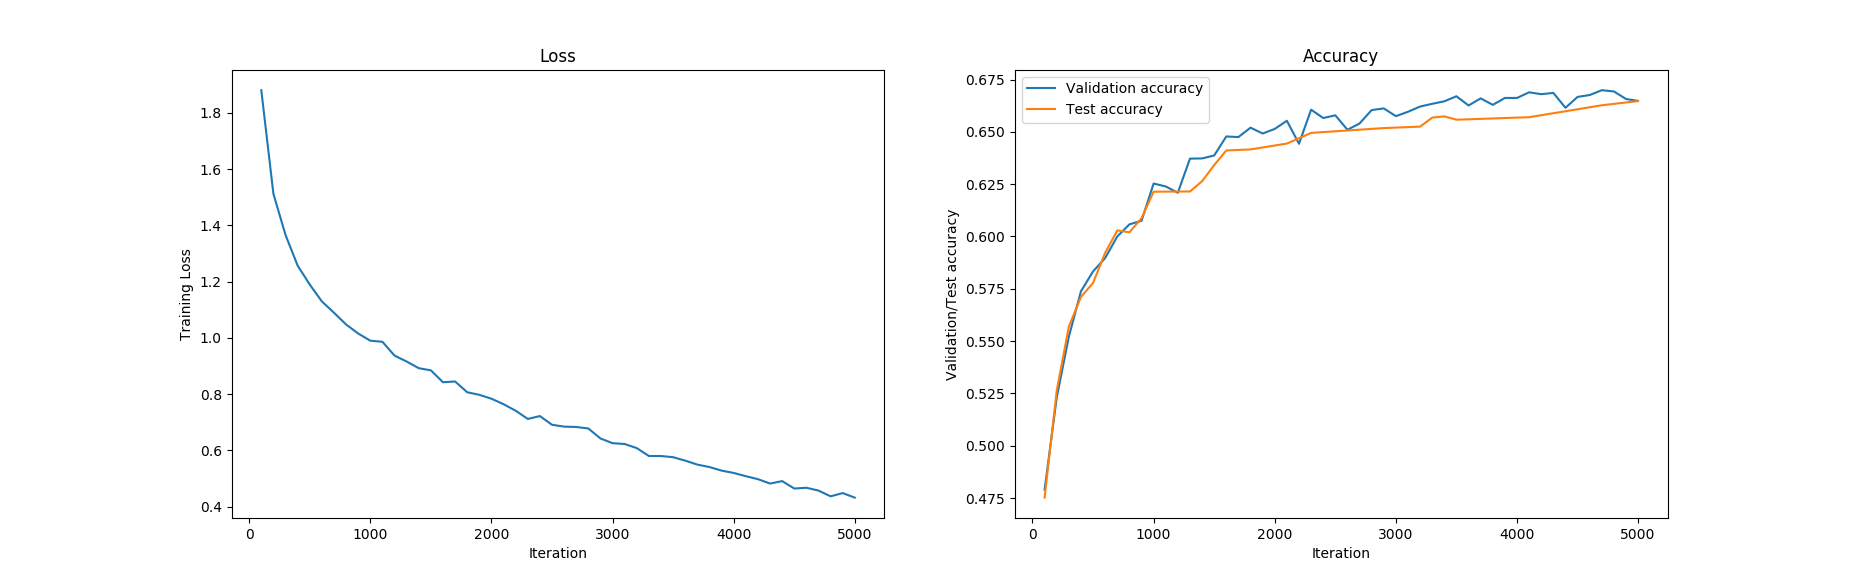
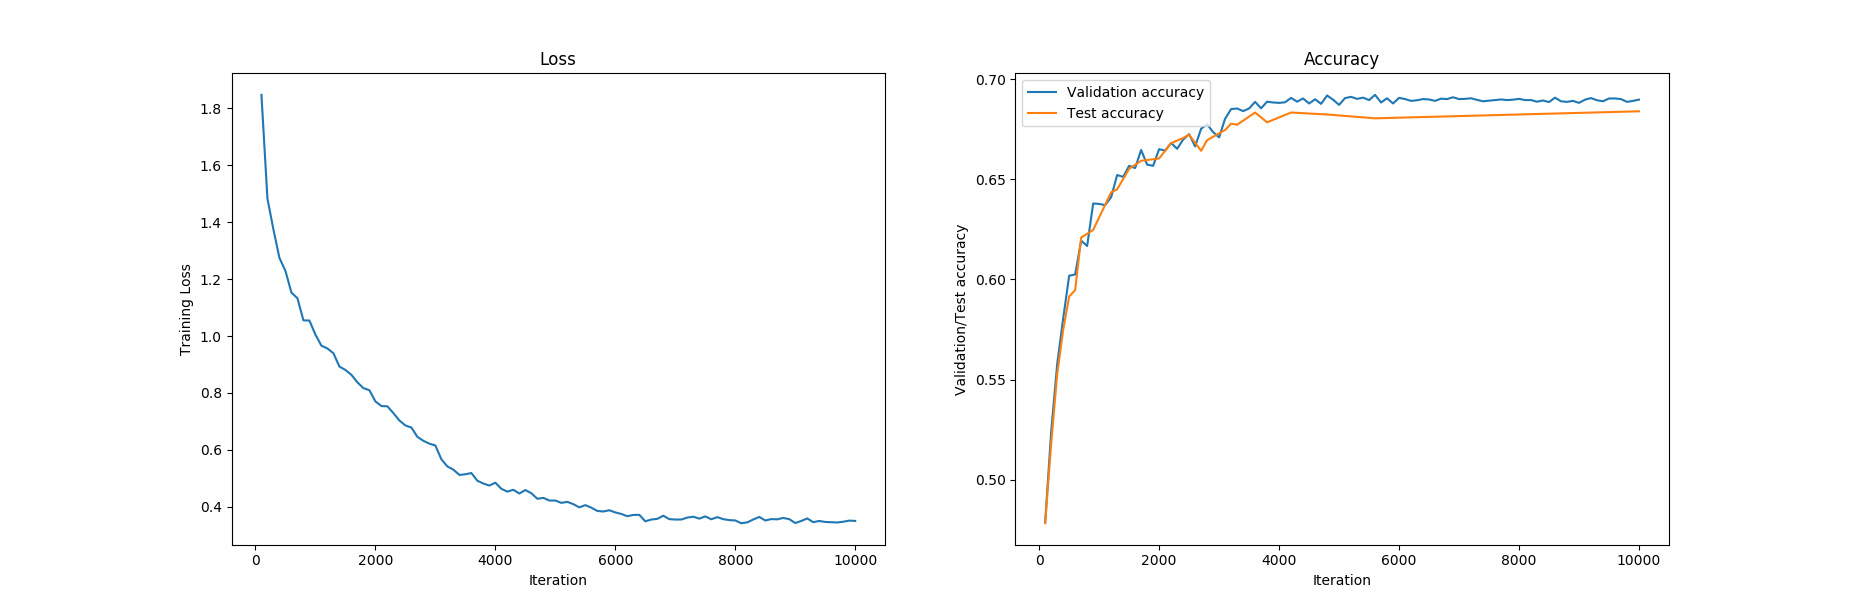
support standard data augmentation

diff --git a/utils/transforms.py b/utils/transforms.py
@@ -1,0 +1,96 @@
+import numpy as np
+import matplotlib.pyplot as plt
+
+
+class Transforms(object):
+
+    def __init__(self, transform_list):
+        self.transform_list = transform_list
+
+    def transform(self, x_data):
+        transformed = x_data
+        for transform in self.transform_list:
+            transformed = transform.transform(transformed)
+        return transformed
+
+
+class Pad(object):
+
+    def __init__(self, padding=4, mode='reflect'):
+        self.padding = padding
+        self.mode = mode
+
+    def transform(self, x_data):
+        return np.pad(x_data, ((0, 0), (0, 0), (self.padding, self.padding), (self.padding, self.padding)), self.mode)
+
+
+class Normalize(object):
+
+    def __init__(self, mean=None, std=None):
+        self.mean = mean
+        self.std = std
+
+    def transform(self, x_data):
+        if self.mean is not None and self.std is not None:
+            self.mean = np.array(self.mean).reshape(1, -1, 1, 1)
+            self.std = np.array(self.std).reshape(1, -1, 1, 1)
+            return (x_data - self.mean) / self.std
+        else:
+            mean = np.mean(x_data, axis=(0, 2, 3)).reshape(1, -1, 1, 1)
+            std = np.std(x_data, axis=(0, 2, 3)).reshape(1, -1, 1, 1)
+            return (x_data - mean) / std
+
+
+class ToTensor(object):
+
+    def __init__(self):
+        pass
+
+    def transform(self, x_data):
+        return x_data / 255
+
+
+class RandomHorizontalFlip(object):
+
+    def __init__(self, flip_prob=0.5):
+        self.flip_prob = flip_prob
+
+    def transform(self, x_data):
+        x_shape = x_data.shape
+        for i in range(x_shape[0]):
+            if np.random.rand() < self.flip_prob:
+                x_data[i] = x_data[i, :, :, ::-1]
+        return x_data
+
+
+class RandomVerticaltalFlip(object):
+
+    def __init__(self, flip_prob=0.5):
+        self.flip_prob = flip_prob
+
+    def transform(self, x_data):
+        x_shape = x_data.shape
+        for i in range(x_shape[0]):
+            if np.random.rand() < self.flip_prob:
+                x_data[i] = x_data[i, :, ::-1, :]
+        return x_data
+
+class RandomCrop(object):
+
+    def __init__(self, crop_size):
+        if type(crop_size) is int:
+            crop_size = (crop_size, crop_size)
+        self.crop_size = crop_size
+
+    def transform(self, x_data):
+        x_shape = x_data.shape
+        h = x_shape[2]
+        w = x_shape[3]
+        x_new = np.zeros(shape=[x_shape[0], x_shape[1], self.crop_size[0], self.crop_size[1]])
+        for i in range(x_shape[0]):
+            bottom = np.random.randint(0, h - self.crop_size[0])
+            left = np.random.randint(0, w - self.crop_size[1])
+            top = bottom + self.crop_size[0]
+            right = left + self.crop_size[1]
+            x_new[i] = x_data[i, :, bottom: top, left: right]
+        return x_new

diff --git a/utils/load_data.py b/utils/load_data.py
@@ -5,18 +5,21 @@ import sys
 import numpy as np
 
 
-def load_mnist(root='./data/mnist'):
+def load_mnist(train_transform, val_test_transfrom, root='./data/mnist'):
     f = gzip.open(os.path.join(root, 'mnist.pkl.gz'), 'rb')
     if sys.version_info[0] == 2:
         train, val, test = pickle.load(f)
     else:
         train, val, test = pickle.load(f, encoding='latin1')
-    train_data, val_data, test_data = train[0].reshape(-1, 1, 28, 28) / 255, val[0].reshape(-1, 1, 28, 28) / 255, test[0].reshape(-1, 1, 28, 28) / 255
+    train_data, val_data, test_data = train[0].reshape(-1, 1, 28, 28), val[0].reshape(-1, 1, 28, 28), \
+                                      test[0].reshape(-1, 1, 28, 28)
+    train_data, val_data, test_data = train_transform.transform(train_data), val_test_transfrom.transform(val_data), \
+                                      val_test_transfrom.transform(val_data)
     train_labels, val_labels, test_labels = train[1], val[1], test[1]
 
     return (train_data, train_labels), (val_data, val_labels), (test_data, test_labels)
 
-def load_cifar10(root='./data/cifar10'):
+def load_cifar10(train_transform, val_test_transfrom, root='./data/cifar10'):
     # from torchvision.datasets.CIFAR10
     base_folder = 'cifar-10-batches-py'
 
@@ -52,8 +55,8 @@ def load_cifar10(root='./data/cifar10'):
         fo.close()
     train_data = np.concatenate(train_data)
     train_labels = np.array(train_labels)
-    train_data = train_data.reshape((40000, 3, 32, 32))
-    train_data = train_data / 255
+    train_data = train_data.reshape(40000, 3, 32, 32)
+    train_data = train_transform.transform(train_data)
     train = train_data, train_labels
 
     # test_set
@@ -71,8 +74,8 @@ def load_cifar10(root='./data/cifar10'):
         test_labels = entry['fine_labels']
     fo.close()
     test_labels = np.array(test_labels)
-    test_data = test_data.reshape((10000, 3, 32, 32))
-    test_data = test_data / 255
+    test_data = test_data.reshape(10000, 3, 32, 32)
+    test_data = val_test_transfrom.transform(test_data)
     test = test_data, test_labels
 
     # validation set
@@ -90,8 +93,8 @@ def load_cifar10(root='./data/cifar10'):
         val_labels = entry['fine_labels']
     fo.close()
     val_labels = np.array(val_labels)
-    val_data = val_data.reshape((10000, 3, 32, 32))
-    val_data = val_data / 255
+    val_data = val_data.reshape(10000, 3, 32, 32)
+    val_data = val_test_transfrom.transform(val_data)
     val = val_data, val_labels
 
     return train, val, test

diff --git a/blocks/layers.py b/blocks/layers.py
@@ -60,7 +60,8 @@ class Conv2d(object):
         self.padding = padding
         self.out_H = None
         self.out_W = None
-        self.W = [np.random.randn(self.out_C, self.in_C, self.kernel_H, self.kernel_W) * np.sqrt(2 / (self.kernel_H * self.kernel_W * self.in_C))]
+        self.W = [np.random.randn(self.out_C, self.in_C, self.kernel_H, self.kernel_W) *
+                  np.sqrt(2 / (self.kernel_H * self.kernel_W * self.in_C))]
         self.b = [np.zeros(shape=[self.out_C, 1])]
         self.W_grad = [np.zeros(self.W[0].shape)]
         self.b_grad = [np.zeros(self.b[0].shape)]
@@ -106,7 +107,8 @@ class Conv2d(object):
             self.W_grad[0] = np.dot(grad_reshaped, self.cols.T).reshape(self.W[0].shape)
         dcols = np.dot(self.W[0].reshape(self.out_C, -1).T, grad_reshaped)
 
-        return col2im_cython(dcols, self.input.shape[0], self.input.shape[1], self.input.shape[2], self.input.shape[3], self.kernel_H, self.kernel_W, self.padding, self.stride)
+        return col2im_cython(dcols, self.input.shape[0], self.input.shape[1], self.input.shape[2], self.input.shape[3],
+                             self.kernel_H, self.kernel_W, self.padding, self.stride)
 
 
 class Dropout(object):

diff --git a/cnn_cifar10.py b/cnn_cifar10.py
@@ -1,13 +1,15 @@
 from blocks import layers, activations, losses
 from utils import load_data, network, optimizers
+from utils.transforms import *
 import time
 
 
 # hyper-parameters
-learning_rate = 0.001
-num_iter = 5000
+learning_rate = 0.003
+num_iter = 10000
 batch_size = 128
 l2_reg = 1e-5
+lr_decay = [0.1, 3000, 6000]
 print_freq = 100
 
 # network
@@ -30,11 +32,15 @@ net.add_block(layers.Linear(n_in=512, n_out=10))
 net.add_block(losses.CrossEntropyLoss())
 
 #optimizer
-optimizer = optimizers.Adam(learning_rate=learning_rate, betas=(0.9, 0.999))
+optimizer = optimizers.Adam(learning_rate=learning_rate, betas=(0.9, 0.999), lr_decay=lr_decay)
 optimizer.load(net.params, net.grads)
 
-# data
-train, val, test = load_data.load_cifar10()
+# data and augmentation
+mean = [x / 255 for x in [125.3, 123.0, 113.9]]
+std = [x / 255 for x in [63.0, 62.1, 66.7]]
+train_transform = Transforms([ToTensor(), Pad(4), RandomCrop(32), RandomHorizontalFlip(), Normalize(mean, std)])
+val_test_transform = Transforms([ToTensor(), Normalize(mean, std)])
+train, val, test = load_data.load_cifar10(train_transform, val_test_transform)
 net.load_data(train, val, test)
 
 # training

diff --git a/utils/optimizers.py b/utils/optimizers.py
@@ -55,15 +55,22 @@ class Momentum(object):
 
 class Adam(object):
 
-    def __init__(self, learning_rate, betas=(0.9, 0.999)):
+    def __init__(self, learning_rate, betas=(0.9, 0.999), lr_decay=None):
         self.params = None
         self.grads = None
         self.m = {}
         self.v = {}
         self.lr = learning_rate
         self.beta1, self.beta2 = betas
+        self.lr_decay_rate = None
+        self.lr_decay_iter = None
+        if lr_decay:
+            self.lr_decay_rate = lr_decay[0]
+            self.lr_decay_iter = lr_decay[1:]
 
     def step(self, iter):
+        if self.lr_decay_rate and iter in self.lr_decay_iter:
+            self.lr *= self.lr_decay_rate
         t = iter + 1
         for key, param in self.params.items():
             self.m[key] = self.beta1 * self.m[key] + (1 - self.beta1) * self.grads[key][0]

diff --git a/mlp_mnist.py b/mlp_mnist.py
@@ -1,5 +1,6 @@
 from blocks import layers, activations, losses
 from utils import load_data, network, optimizers
+from utils.transforms import *
 import time
 
 
@@ -26,8 +27,10 @@ net.add_block(losses.CrossEntropyLoss())
 optimizer = optimizers.Momentum(learning_rate=learning_rate, momentum=0.9, lr_decay=lr_decay)
 optimizer.load(net.params, net.grads)
 
-# data
-train, val, test = load_data.load_mnist()
+# data and augmentation
+train_transform = Transforms([ToTensor()])
+val_test_transform = Transforms([ToTensor()])
+train, val, test = load_data.load_mnist(train_transform, val_test_transform)
 net.load_data(train, val, test)
 
 # training

diff --git a/mlp_cifar10.py b/mlp_cifar10.py
@@ -1,5 +1,6 @@
 from blocks import layers, activations, losses
 from utils import load_data, network, optimizers
+from utils.transforms import *
 import time
 
 
@@ -29,8 +30,10 @@ net.add_block(losses.CrossEntropyLoss())
 optimizer = optimizers.Adam(learning_rate=learning_rate, betas=(0.9, 0.999))
 optimizer.load(net.params, net.grads)
 
-# data
-train, val, test = load_data.load_cifar10()
+# data and augmentation
+train_transform = Transforms([ToTensor()])
+val_test_transform = Transforms([ToTensor()])
+train, val, test = load_data.load_cifar10(train_transform, val_test_transform)
 net.load_data(train, val, test)
 
 # training

diff --git a/cnn_mnist.py b/cnn_mnist.py
@@ -1,5 +1,6 @@
 from blocks import layers, activations, losses
 from utils import load_data, network, optimizers
+from utils.transforms import *
 import time
 
 
@@ -33,8 +34,10 @@ net.add_block(losses.CrossEntropyLoss())
 optimizer = optimizers.Adam(learning_rate=learning_rate, betas=(0.9, 0.999))
 optimizer.load(net.params, net.grads)
 
-# data
-train, val, test = load_data.load_mnist()
+# data and augmentation
+train_transform = Transforms([ToTensor()])
+val_test_transform = Transforms([ToTensor()])
+train, val, test = load_data.load_mnist(train_transform, val_test_transform)
 net.load_data(train, val, test)
 
 # training

diff --git a/README.md b/README.md
@@ -4,7 +4,7 @@ NumLayers
 A Deep Learning Library Written in NumPy
 ----
 - A personal project for fun and for the purpose of learning <br>
-- Version: 0.5.0 <br><br>
+- Version: 0.5.1 <br><br>
 - Author: Wenlin Chen <br>
 - E-mail: chen.wenlin@outlook.com <br><br>
 23rd December, 2018 <br><br>
@@ -32,8 +32,8 @@ Losses<br>
 - Binary Cross Entropy Loss<br>
 
 Activation Functions<br> 
-- ReLU<br>
 - Tanh<br>
+- ReLU<br>
 - Sigmoid<br>
 - Leaky ReLU<br>
 
@@ -43,8 +43,9 @@ Optimizers<br>
 - Stochastic Gradient Descent<br>
 
 Training Tools<br>
-- Learning Rate Decay<br>
-- L2 Regularization<br><br>
+- L2 Regularization<br>
+- Data Augmentation<br>
+- Learning Rate Decay<br><br>
 
 
 Datasets
